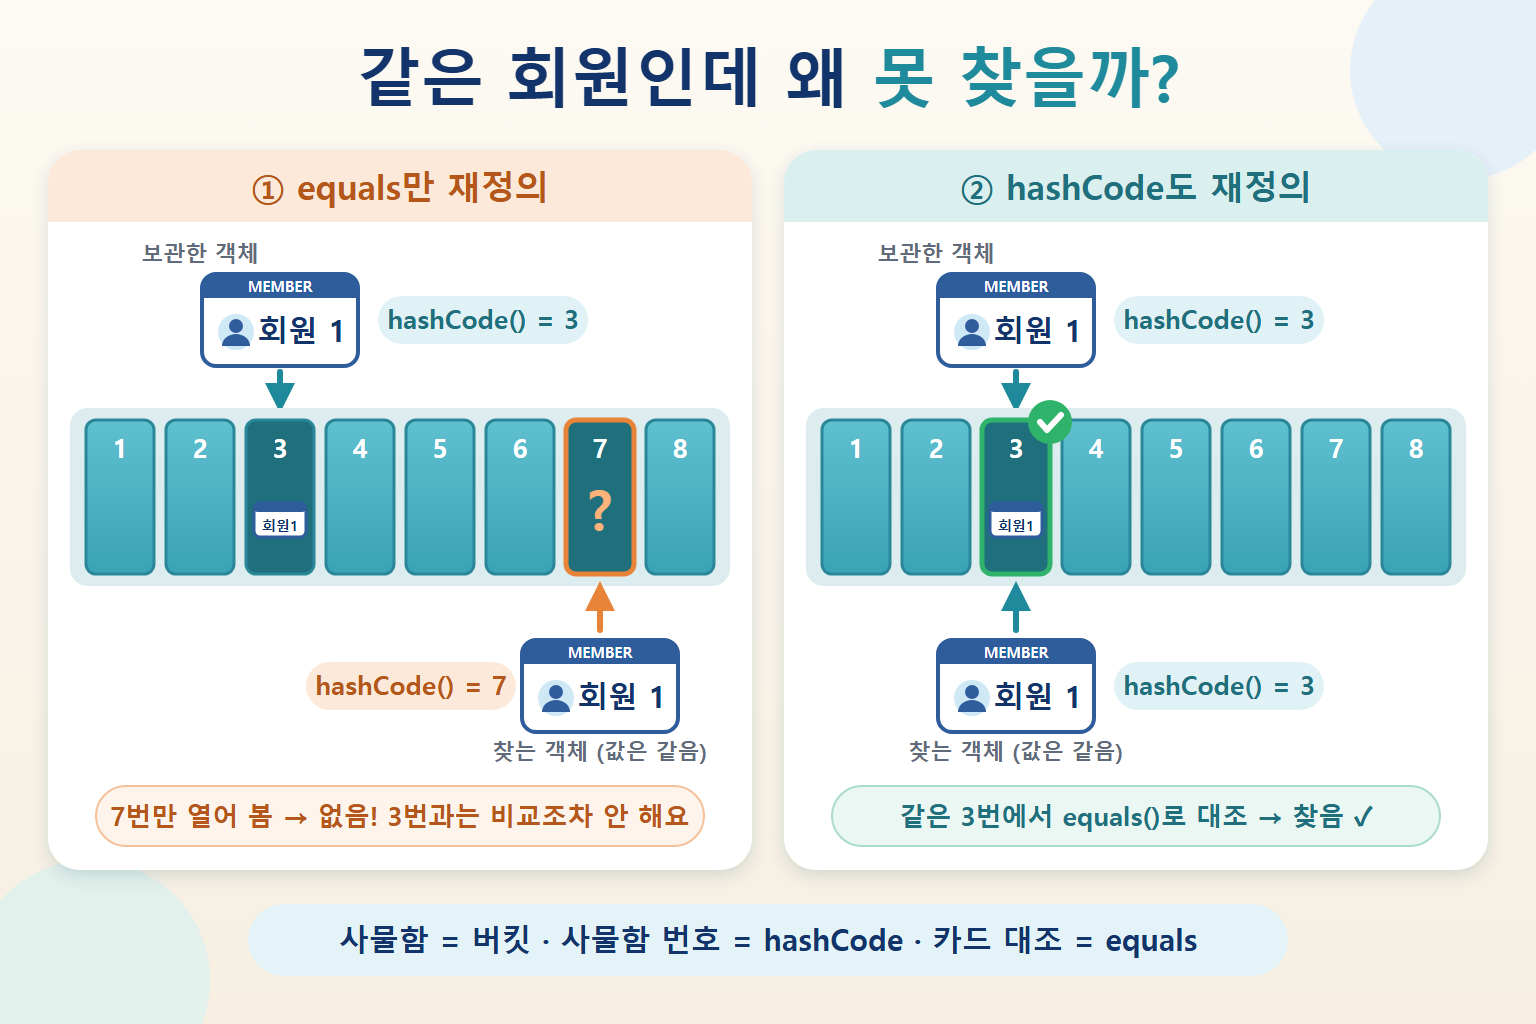
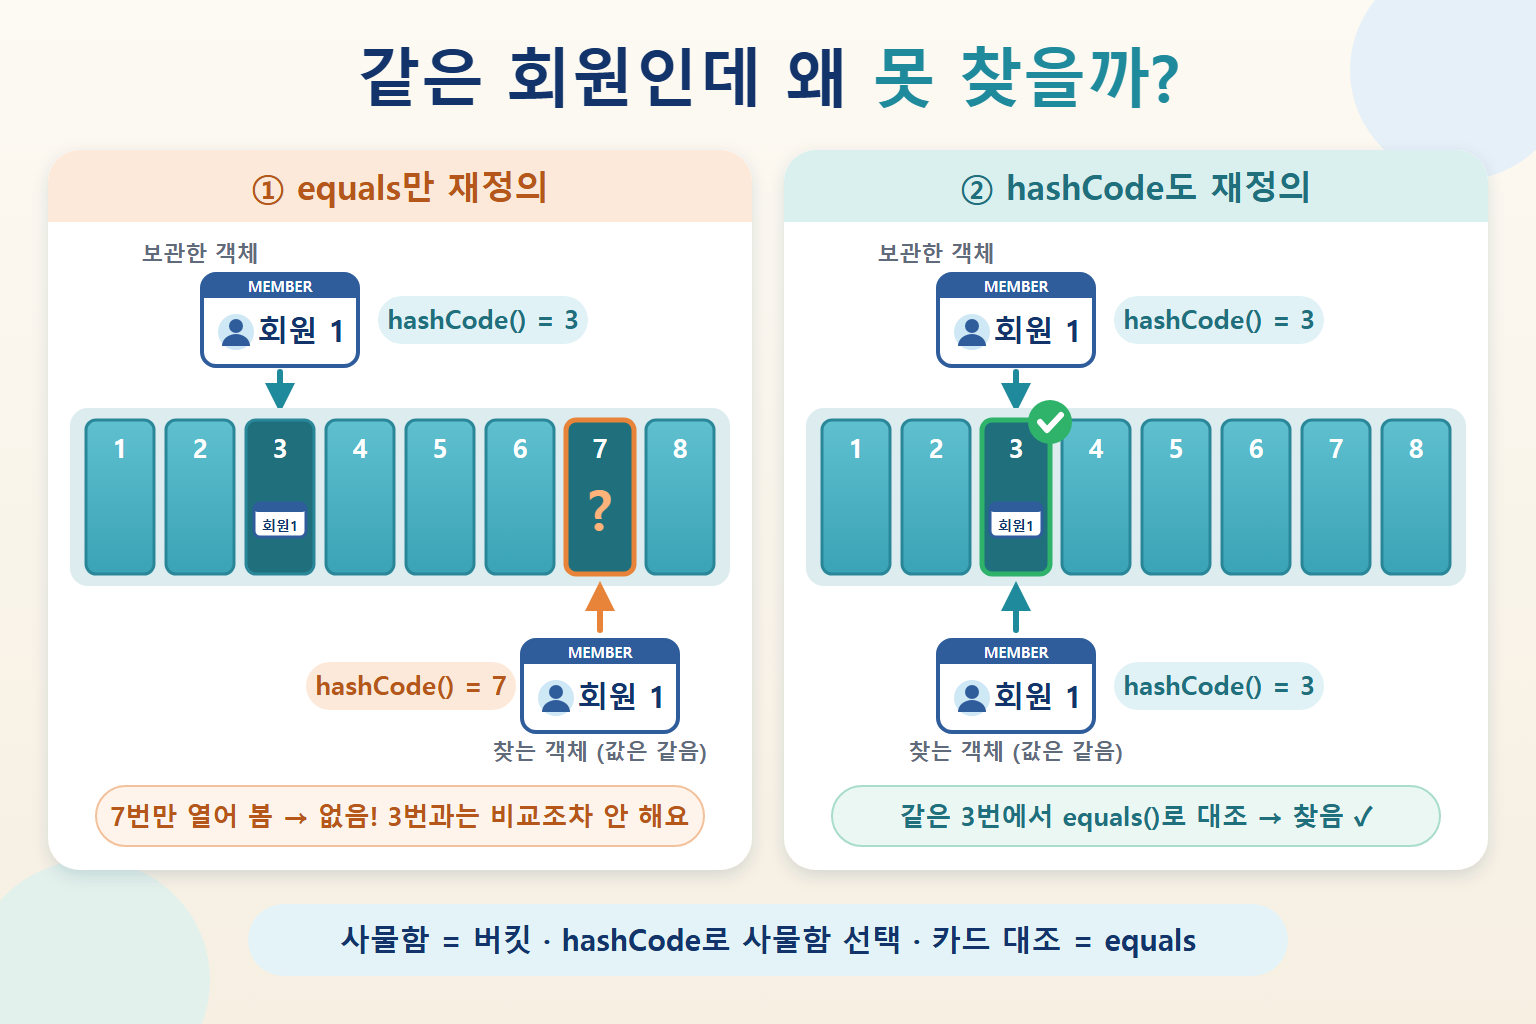
Rewrite Java equals and hashCode lesson and clarify illustration legend

Changed region(s): [[0.3125, 0.9062, 0.6875, 0.9375], [0.7188, 0.9062, 0.7812, 0.9375], [0.2188, 0.9062, 0.2812, 0.9375]]

diff --git a/questions/java-equals-and-hashcode.md b/questions/java-equals-and-hashcode.md
@@ -5,85 +5,140 @@ title: 자바의 equals와 hashCode
 ---
 
 ## 질문
-자바에서 `==`와 `equals()`는 무엇이 다르고, `equals()`를 재정의할 때 `hashCode()`도 함께 재정의해야 하는 이유는 무엇인가요?
+Java에서 == 연산자와 equals() 메서드는 객체를 비교하는 방식에서 어떤 차이가 있나요? 또한, equals()를 재정의할 때 hashCode()도 함께 재정의해야 하는 이유는 무엇인가요?
 
 ## 정답
-`==`는 기본형이면 값을, 참조형이면 두 변수가 같은 객체를 가리키는지를 비교합니다. `equals()`는 객체가 논리적으로 같은지를 비교하도록 재정의할 수 있습니다. `HashMap`·`HashSet`은 `hashCode()`로 버킷을 먼저 찾은 뒤 `equals()`로 비교하므로, `equals()`가 같다고 판단한 두 객체는 반드시 같은 `hashCode()`를 반환해야 합니다.
+==는 기본형에서는 값이 같은지, 참조형에서는 같은 객체를 가리키는지 비교합니다.
+
+equals()는 정해진 기준에 따라 두 객체를 같다고 볼 수 있는지 비교합니다. 예를 들어 문자열은 내용이 같으면, 회원은 회원 번호가 같으면 같은 것으로 판단할 수 있습니다.
+
+HashMap과 HashSet은 hashCode()로 검색할 위치를 좁힌 뒤 equals()로 같은 객체인지 확인합니다. 따라서 equals()가 true인 두 객체는 반드시 같은 hashCode()를 반환해야 합니다. 이 규칙을 지키도록 두 메서드를 함께 재정의해야 합니다.
 
 ## 해설
-### 먼저 한 줄씩 정리해 볼게요
+### `==`와 `equals()`는 무엇을 비교할까요?
 
-- `==`는 **"같은 물건인가?"**를 묻습니다.
-- `equals()`는 **"내용이 같은가?"**를 묻습니다.
-- `hashCode()`는 **"몇 번 사물함에 넣을까?"**를 정하는 번호입니다.
+같은 책을 두 권 샀다고 생각해 보세요. 내용은 같지만, 손에 들고 있는 책은 서로 다른 두 권입니다.
 
-### ==와 equals(): 같은 물건 vs 같은 내용
+객체를 비교할 때도 이 차이가 있습니다.
 
-서점에서 같은 책을 두 권 샀다고 생각해 보세요. 제목도 내용도 똑같지만, 책은 분명히 두 권입니다.
+* `==`: 둘이 실제로 같은 객체인가?
+* `equals()`: 둘을 같은 것으로 볼 수 있는가?
 
-- `==`로 비교하면 **다른 책**입니다. 서로 다른 객체이기 때문입니다.
-- `equals()`로 비교하면 **같은 책**입니다. 내용이 같기 때문입니다.
+문자열로 확인하면 더 쉽습니다.
 
 ```java
 String a = new String("java");
 String b = new String("java");
 
-a == b;      // false: 책이 두 권 (다른 객체)
-a.equals(b); // true: 내용이 같음
+System.out.println(a == b);      // false: 서로 다른 객체
+System.out.println(a.equals(b)); // true: 문자열 내용이 같음
 ```
 
-`String`은 자바가 이미 `equals()`를 "내용 비교"로 만들어 두었습니다. 하지만 **직접 만든 클래스는 그렇지 않습니다.** 재정의하지 않으면 `equals()`도 `==`처럼 "같은 물건인가?"만 확인합니다.
+`new`로 각각 만들었기 때문에 `a`와 `b`는 서로 다른 객체입니다. 그래서 `==`는 `false`입니다.
 
-### hashCode()는 왜 같이 바꿔야 할까?
+하지만 `String`은 문자열의 내용을 비교하도록 `equals()`를 재정의해 두었기 때문에 `a.equals(b)`는 `true`입니다.
 
-`HashSet`은 물건을 찾을 때 두 단계를 거칩니다.
+직접 만든 클래스도 자동으로 내용을 비교해 주는 것은 아닙니다. `Object`에서 물려받은 기본 `equals()`는 `==`처럼 같은 객체인지 확인합니다. 회원 번호처럼 특정 값을 기준으로 비교하려면 직접 재정의해야 합니다.
 
-1. `hashCode()`로 **사물함 번호**를 정합니다.
-2. 그 사물함 **안에서만** `equals()`로 비교합니다.
+### `hashCode()`는 어떤 역할을 할까요?
 
-문제는 1단계에서 생깁니다. `equals()`만 바꾸고 `hashCode()`를 그대로 두면, 내용이 같은 두 객체도 서로 다른 사물함 번호를 받습니다. 기본 `hashCode()`는 객체마다 다른 번호를 주기 때문입니다. 결국 `HashSet`은 엉뚱한 사물함만 열어 보고 "없어요"라고 답합니다. `equals()`로 비교할 기회조차 오지 않습니다.
+`HashSet`이 객체를 보관하는 방식을 사물함에 비유해 보겠습니다.
+
+1. `hashCode()`를 바탕으로 객체를 보관할 사물함을 정합니다.
+2. 객체를 찾을 때도 같은 방식으로 사물함을 고릅니다.
+3. 그 안에서 `equals()`로 같은 객체인지 확인합니다.
+
+여기서 사물함은 버킷, `hashCode()`는 버킷을 고르는 데 사용하는 값입니다. `hashCode()` 자체가 버킷 번호인 것은 아닙니다.
+
+핵심은 처음부터 모든 객체를 하나씩 비교하지 않는다는 것입니다. 해시값으로 찾을 위치를 좁히기 때문에 객체를 빠르게 검색할 수 있습니다.
+
+### `equals()`만 재정의하면 왜 문제가 생길까요?
+
+회원 번호가 같으면 같은 회원으로 판단하도록 `equals()`를 만들었다고 해 보겠습니다.
+
+그런데 `hashCode()`는 그대로 두면, 같은 회원 번호를 가진 두 객체가 서로 다른 해시값을 반환할 수 있습니다.
+
+그러면 같은 회원인데도 서로 다른 사물함으로 안내될 수 있습니다. `HashSet`은 다른 사물함까지 전부 찾아보지 않으므로, 이미 저장한 회원을 찾지 못할 수 있습니다.
 
 ![같은 회원 번호 카드가 왼쪽에서는 서로 다른 사물함 번호를 받아 찾지 못하고, 오른쪽에서는 같은 사물함에서 번호를 대조해 찾는 비교 그림](../images/java-equals-and-hashcode.png)
 
-사물함은 버킷, 사물함 번호는 hashCode, 카드 대조는 equals에 대응하는 비유입니다. HashSet은 고른 사물함 안에서만 비교하므로, 사물함 번호가 다르면 값이 같은 회원도 찾지 못합니다.
+사물함은 버킷, 카드 대조는 equals에 대응하는 비유입니다. 그림에서는 이해를 돕기 위해 해시값으로 고른 사물함 번호를 그대로 표시했습니다. 고른 사물함 안에서만 비교하므로, 사물함이 다르면 값이 같은 회원도 찾지 못합니다.
 
-### 코드로 확인하기
+그래서 다음 규칙이 필요합니다.
 
-회원 번호(`id`)가 같으면 같은 회원으로 보도록 `equals()`만 재정의해 보겠습니다.
+`equals()`로 같다고 판단한 두 객체는 반드시 같은 `hashCode()`를 반환해야 합니다.
+
+참고로 기본 `hashCode()`가 객체마다 반드시 다른 값을 반환하는 것은 아닙니다. 다만, 직접 정한 비교 기준에 맞춰 같은 값을 반환한다고 보장하지 않습니다.
+
+### 코드로 확인해 볼까요?
+
+다음은 회원 번호인 `id`가 같으면 같은 회원으로 판단하는 클래스입니다.
 
 ```java
-class Member {
+final class Member {
     private final long id;
-    Member(long id) { this.id = id; }
+
+    Member(long id) {
+        this.id = id;
+    }
 
     @Override
     public boolean equals(Object o) {
         return o instanceof Member m && id == m.id;
     }
+
     // hashCode()는 재정의하지 않음
 }
-
-Set<Member> members = new HashSet<>();
-members.add(new Member(1));
-members.contains(new Member(1)); // 대부분 false
 ```
 
-분명 같은 1번 회원을 넣었는데 찾지 못합니다. 해결 방법은 간단합니다. `equals()`에서 비교한 값으로 `hashCode()`도 **함께 만들어 주면 됩니다.**
+두 객체를 직접 비교하면 같은 회원으로 판단합니다.
+
+```java
+Member a = new Member(1);
+Member b = new Member(1);
+
+System.out.println(a.equals(b)); // true
+```
+
+하지만 `HashSet`에서는 문제가 생길 수 있습니다.
+
+```java
+Set<Member> members = new HashSet<>();
+members.add(a);
+
+System.out.println(members.contains(b)); // false가 나올 수 있음
+```
+
+`a`와 `b`는 회원 번호가 같지만, 해시값까지 같다는 보장은 없기 때문입니다.
+
+해결하려면 `equals()`에서 사용한 기준에 맞춰 `hashCode()`도 재정의하면 됩니다.
 
 ```java
 @Override
 public int hashCode() {
-    return Long.hashCode(id); // equals와 같은 기준(id)으로 계산
+    return Long.hashCode(id);
 }
 ```
 
-이제 같은 `id`는 항상 같은 사물함으로 가므로 `contains()`가 `true`를 반환합니다. 자바 16 이상이라면 `record Member(long id) {}`처럼 `record`를 쓰는 방법도 있습니다. `equals()`와 `hashCode()`를 짝을 맞춰 자동으로 만들어 줍니다.
+이제 같은 `id`를 가진 객체는 같은 해시값을 반환합니다. 같은 버킷에서 비교할 수 있고, `equals()`도 `true`이므로 정상적으로 찾습니다.
+
+```java
+System.out.println(members.contains(new Member(1))); // true
+```
+
+Java 16 이상에서는 다음처럼 `record`를 사용할 수도 있습니다.
+
+```java
+record Member(long id) {}
+```
+
+`record`는 구성 요소인 `id`를 기준으로 `equals()`와 `hashCode()`를 자동으로 만들어 줍니다.
 
 ### 기억할 점
 
-- `equals()`가 같으면 `hashCode()`도 **반드시** 같아야 합니다.
-- 반대로 `hashCode()`가 같다고 `equals()`도 같은 것은 아닙니다. 다른 물건이 같은 사물함에 들어갈 수도 있습니다(해시 충돌).
-- 사물함에 넣은 뒤 `id`를 바꾸면 사물함 번호도 바뀌어 다시 찾지 못합니다. 키로 쓰는 객체는 값이 바뀌지 않게(불변) 만드는 것이 안전합니다.
+* `equals()`가 `true`이면 `hashCode()`도 반드시 같아야 합니다.
+* `hashCode()`가 같아도 `equals()`는 `false`일 수 있습니다. 서로 다른 객체가 같은 해시값을 갖는 것을 해시 충돌이라고 합니다.
+* 저장한 뒤 비교 기준이 되는 값을 바꾸면 검색에 문제가 생길 수 있습니다. `HashMap`의 키나 `HashSet`의 원소로 사용할 객체는 해당 값이 바뀌지 않도록 만드는 것이 안전합니다.
 
 ### 참고 자료
 
